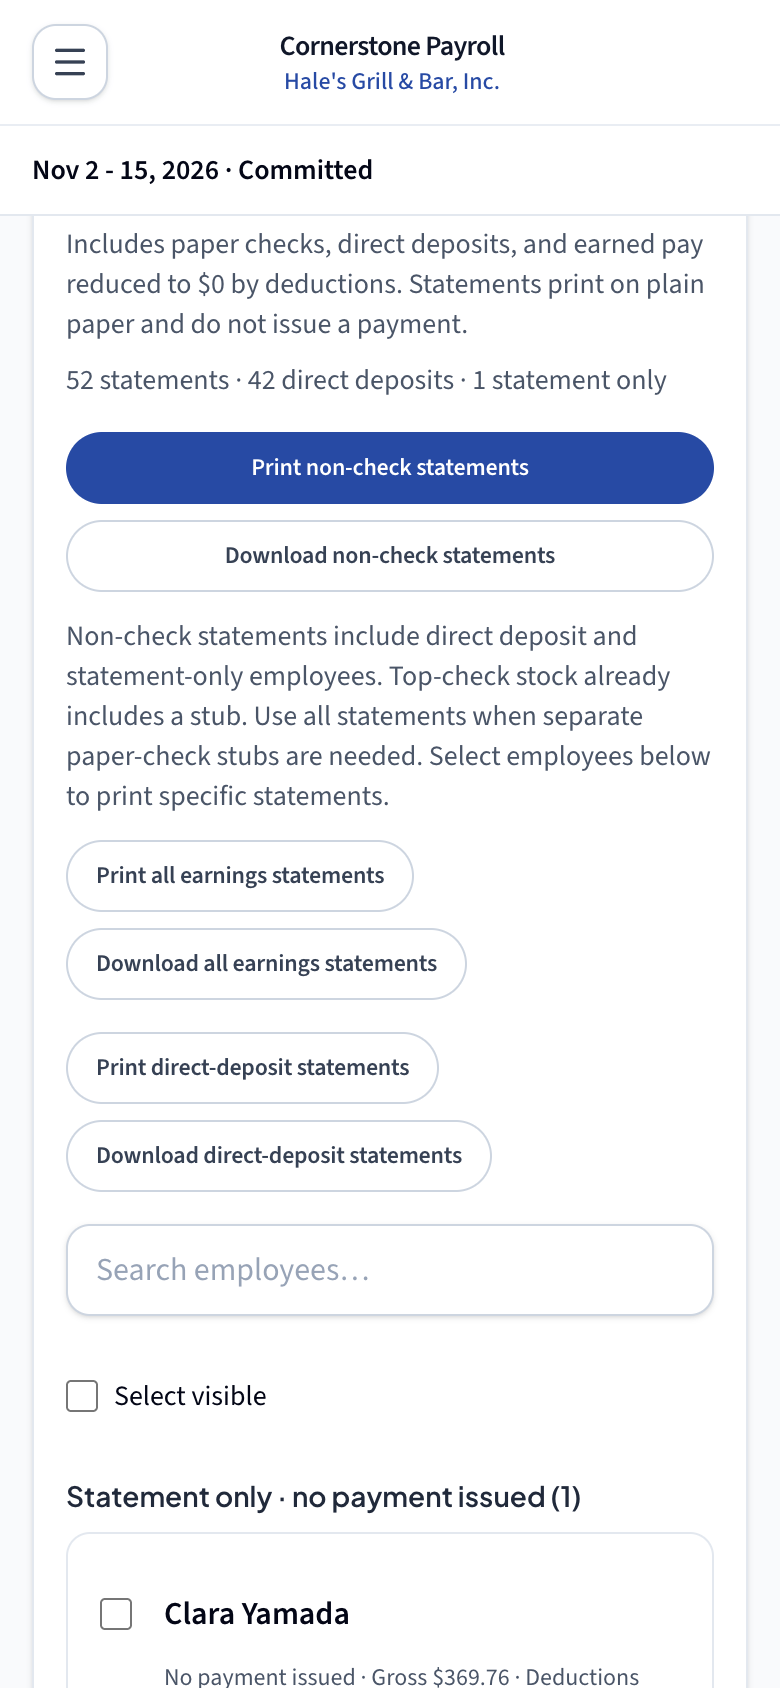
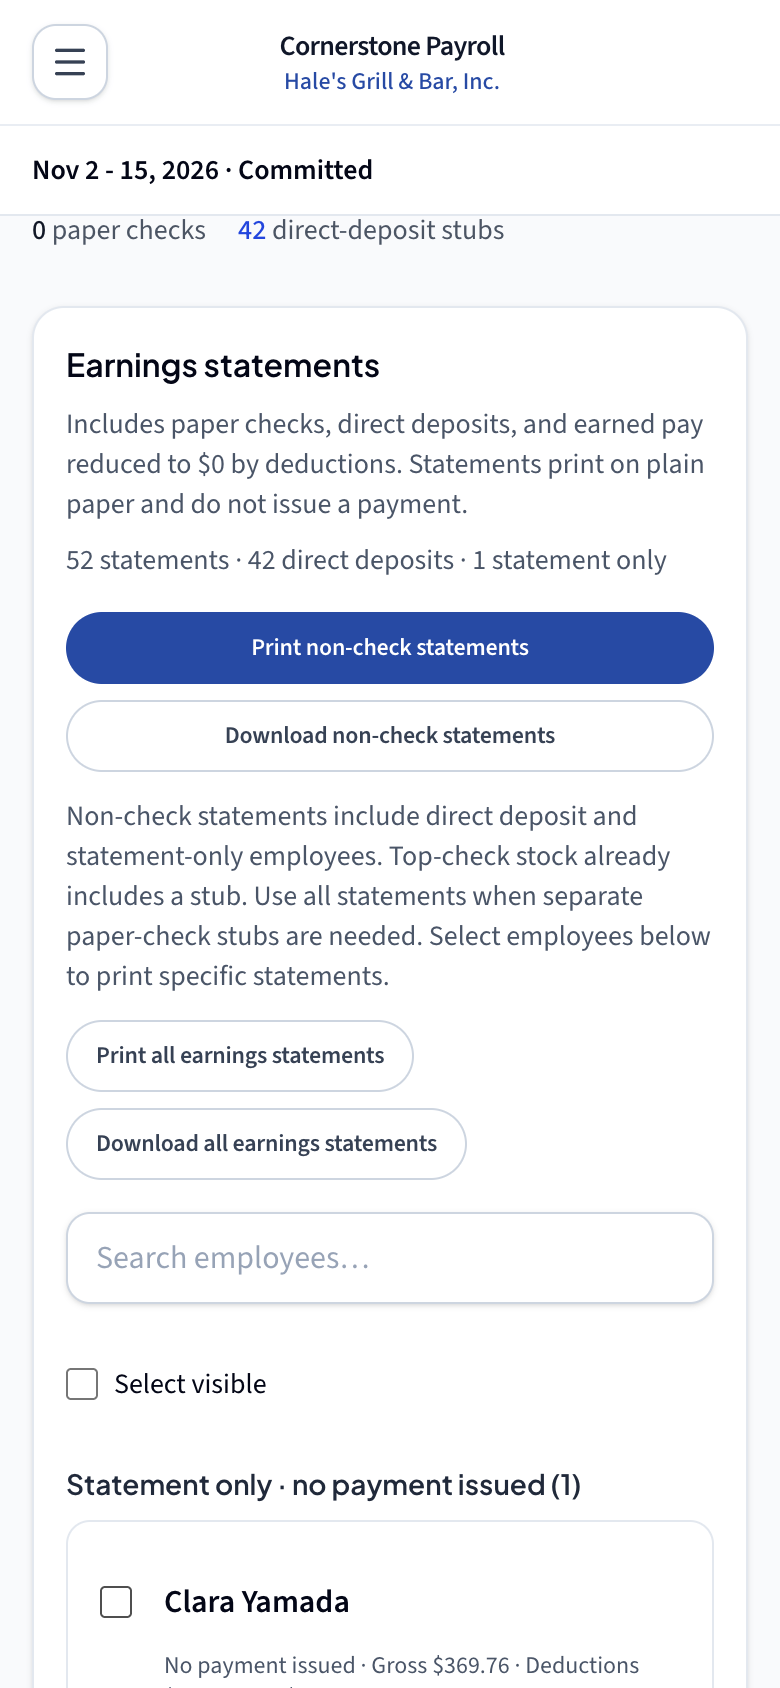
Simplify committed statement actions and match run eligibility
Remove redundant deposit-only controls and cover effective-method refresh plus nonpositive paper-check net pay.

diff --git a/web/src/components/payroll/ChecksPanel.tsx b/web/src/components/payroll/ChecksPanel.tsx
@@ -309,38 +309,6 @@ export function ChecksPanel({ payPeriod, searchTerm = '', refreshToken = 0, onCh
     }
   };
 
-  const handleDirectDepositStubs = async (print: boolean) => {
-    setBatchLoading(true);
-    setBatchAction(print ? 'Opening direct-deposit stubs...' : 'Downloading direct-deposit stubs...');
-    try {
-      const result = await payStubsApi.directDepositStubsPdf(payPeriod.id);
-      const url = URL.createObjectURL(result.blob);
-      if (print) {
-        const printWindow = window.open(url);
-        if (!printWindow) {
-          URL.revokeObjectURL(url);
-          notify({ tone: 'error', message: 'Pop-up blocked. Please allow pop-ups to print direct-deposit stubs.' });
-          return;
-        }
-        printWindow.addEventListener('load', () => {
-          printWindow.print();
-          setTimeout(() => URL.revokeObjectURL(url), 60000);
-        });
-      } else {
-        const link = document.createElement('a');
-        link.href = url;
-        link.download = result.filename || `direct_deposit_stubs_${payPeriod.pay_date ?? 'undated'}.pdf`;
-        link.click();
-        setTimeout(() => URL.revokeObjectURL(url), 100);
-      }
-    } catch (err) {
-      notify({ tone: 'error', message: err instanceof Error ? err.message : 'Failed to generate direct-deposit stubs' });
-    } finally {
-      setBatchLoading(false);
-      setBatchAction(null);
-    }
-  };
-
   const checkNumberChanges = useMemo(() => checks.filter((item) =>
     !item.voided && (checkNumberDrafts[item.id] ?? item.check_number ?? '').trim() !== (item.check_number || '').trim()
   ), [checkNumberDrafts, checks]);
@@ -448,7 +416,9 @@ export function ChecksPanel({ payPeriod, searchTerm = '', refreshToken = 0, onCh
   const stubEligibleIds = filteredStatements.map((item) => item.id);
   const allVisibleStubsSelected = stubEligibleIds.length > 0 && stubEligibleIds.every((id) => selectedStubIdSet.has(id));
   const hasPrintableStub = statementItems.length > 0;
-  const hasNonCheckStub = statementItems.some((item) => item.statement_only || item.payment_delivery_method !== 'paper_check');
+  // The checks index serializes this run's effective method as payment_delivery_method.
+  const hasNonCheckStub = statementItems.some((item) =>
+    item.statement_only || item.payment_delivery_method !== 'paper_check' || Number(item.net_pay) <= 0);
   const hasPhysicalChecks = checks.some((item) => !item.voided && Number(item.net_pay) > 0);
   const directDepositCount = statementItems.filter((item) => !item.statement_only && item.payment_delivery_method === 'direct_deposit').length;
   const statementOnlyCount = statementItems.filter((item) => item.statement_only).length;
@@ -577,12 +547,6 @@ export function ChecksPanel({ payPeriod, searchTerm = '', refreshToken = 0, onCh
           <Button size="sm" variant="outline" onClick={() => void handlePrintPayStubs(true)} disabled={batchLoading || !hasPrintableStub}>Print all earnings statements</Button>
           <Button size="sm" variant="outline" onClick={() => void handleDownloadPayStubs(true)} disabled={batchLoading || !hasPrintableStub}>Download all earnings statements</Button>
         </div>
-        {directDepositCount > 0 && (
-          <div className="mt-4 flex flex-wrap gap-2">
-            <Button size="sm" variant="outline" onClick={() => void handleDirectDepositStubs(true)} disabled={batchLoading}>Print direct-deposit statements</Button>
-            <Button size="sm" variant="outline" onClick={() => void handleDirectDepositStubs(false)} disabled={batchLoading}>Download direct-deposit statements</Button>
-          </div>
-        )}
         {statementItems.length > 0 ? (
           <>
             <div className="mt-4 flex flex-col gap-4 sm:flex-row sm:items-center sm:justify-between">

diff --git a/web/src/components/payroll/ChecksPanel.test.tsx b/web/src/components/payroll/ChecksPanel.test.tsx
@@ -198,6 +198,27 @@ describe('ChecksPanel earnings statements', () => {
     await waitFor(() => expect(apiMocks.batchPdf).toHaveBeenCalledWith(8, undefined));
   });
 
+  it.each([0, -10])('enables non-check statements for paper-check net pay %s even without the statement-only flag', async netPay => {
+    renderStatements([{ ...paperStatement, net_pay: netPay, statement_only: false }]);
+    const print = await screen.findByRole('button', { name: 'Print non-check statements' });
+    expect((print as HTMLButtonElement).disabled).toBe(false);
+    fireEvent.click(print);
+    await waitFor(() => expect(apiMocks.batchPdf).toHaveBeenCalledWith(8, undefined, true));
+  });
+
+  it('refreshes default eligibility after the run payment method changes in either direction', async () => {
+    const view = renderStatements([paperStatement]);
+    expect((await screen.findByRole('button', { name: 'Print non-check statements' }) as HTMLButtonElement).disabled).toBe(true);
+    apiMocks.list.mockResolvedValue({ checks: [], direct_deposit_items: [], earnings_statement_items: [{ ...paperStatement, payment_delivery_method: 'direct_deposit' }], meta });
+    view.rerender(<FeedbackProvider><ChecksPanel payPeriod={{ id: 8, status: 'committed' } as PayPeriod} refreshToken={1} /></FeedbackProvider>);
+    await waitFor(() => expect((screen.getByRole('button', { name: 'Print non-check statements' }) as HTMLButtonElement).disabled).toBe(false));
+    fireEvent.click(screen.getByRole('button', { name: 'Download non-check statements' }));
+    await waitFor(() => expect(apiMocks.batchPdf).toHaveBeenCalledWith(8, undefined, true));
+    apiMocks.list.mockResolvedValue({ checks: [check], direct_deposit_items: [], earnings_statement_items: [paperStatement], meta });
+    view.rerender(<FeedbackProvider><ChecksPanel payPeriod={{ id: 8, status: 'committed' } as PayPeriod} refreshToken={2} /></FeedbackProvider>);
+    await waitFor(() => expect((screen.getByRole('button', { name: 'Print non-check statements' }) as HTMLButtonElement).disabled).toBe(true));
+  });
+
   it('keeps selections across searches and prints exactly the selected statement IDs', async () => {
     renderStatements();
     fireEvent.click(await screen.findByRole('checkbox', { name: 'Select earnings statement for Casey Zero' }));
@@ -242,10 +263,11 @@ describe('ChecksPanel earnings statements', () => {
     await waitFor(() => expect(URL.revokeObjectURL).toHaveBeenCalledWith('blob:statement-test'));
   });
 
-  it('keeps deposit-only printing separate and refresh removes an obsolete selected row', async () => {
+  it('offers only non-check and all statement actions, and refresh removes an obsolete selected row', async () => {
     const view = renderStatements();
-    fireEvent.click(await screen.findByRole('button', { name: 'Print direct-deposit statements' }));
-    await waitFor(() => expect(apiMocks.directDepositStubsPdf).toHaveBeenCalledWith(8));
+    await screen.findByRole('button', { name: 'Print non-check statements' });
+    expect(screen.queryByRole('button', { name: 'Print direct-deposit statements' })).toBeNull();
+    expect(screen.queryByRole('button', { name: 'Download direct-deposit statements' })).toBeNull();
     fireEvent.click(screen.getByRole('checkbox', { name: 'Select earnings statement for Casey Zero' }));
     apiMocks.list.mockResolvedValue({ checks: [check], direct_deposit_items: [], earnings_statement_items: [paperStatement], meta });
     view.rerender(<FeedbackProvider><ChecksPanel payPeriod={{ id: 8, status: 'committed' } as PayPeriod} refreshToken={1} /></FeedbackProvider>);

diff --git a/api/spec/requests/api/v1/admin/checks_spec.rb b/api/spec/requests/api/v1/admin/checks_spec.rb
@@ -126,6 +126,20 @@ RSpec.describe "Api::V1::Admin::Checks", type: :request do
       expect(response.parsed_body.dig("meta", "direct_deposit_count")).to eq(1)
     end
 
+    it "serializes the effective run method after overrides in either direction" do
+      employee_a.update!(payment_delivery_method: "direct_deposit")
+      item_a.update!(payment_delivery_method: "paper_check")
+      get "/api/v1/admin/pay_periods/#{pay_period.id}/checks"
+      statement = response.parsed_body.fetch("earnings_statement_items").find { |row| row.fetch("id") == item_a.id }
+      expect(statement.fetch("payment_delivery_method")).to eq("paper_check")
+
+      employee_a.update!(payment_delivery_method: "paper_check")
+      item_a.update!(payment_delivery_method: "direct_deposit", check_number: nil)
+      get "/api/v1/admin/pay_periods/#{pay_period.id}/checks"
+      statement = response.parsed_body.fetch("earnings_statement_items").find { |row| row.fetch("id") == item_a.id }
+      expect(statement.fetch("payment_delivery_method")).to eq("direct_deposit")
+    end
+
     it "lists zero-net wage statements without putting them in the payment queue" do
       zero_employee = create(:employee, company: company, first_name: "Avery", last_name: "Example")
       zero_item = create(:payroll_item, pay_period: pay_period, employee: zero_employee,

diff --git a/docs/qa/preview-stubs-20261117/README.md b/docs/qa/preview-stubs-20261117/README.md
@@ -33,3 +33,15 @@ Limits: responsive browser dimensions, not physical mobile hardware or native pr
 Review scope decisions: CodeRabbit initial review of `ecf70620` requested automatic inclusion of First Hawaiian 4-Up and retained-wage voided paper checks. Both would expand the specified delivery-method default. The implementation keeps the brief’s default and explicit all/selected access; the runbook now documents these exceptions, with added regression coverage. The review reply records the rationale. CodeRabbit withdrew both suggested default changes after the scope explanation and requested pushed evidence for the documented exceptions and added tests. The original review state remains changes requested until it is updated.
 
 Engineering gate: relevant RSpec; RuboCop on changed Ruby files; Brakeman; frontend lint, TypeScript and 52 affected Vitest tests; Impeccable advisory scan (no findings). Full RSpec is delegated to CI because of its normal ~20-minute duration. 74 relevant RSpec examples passed; a subsequent affected-spec run passed all 29 examples, including the two added scope regressions (76 unique relevant examples total). RuboCop and Brakeman passed after the filename changes. All task-owned servers and browser resources were cleaned; both isolated databases, the copied .env and disposable frontend dependencies were removed after the last test run. Raw downloads are temporary browser artifacts; the membership results and screenshots are retained here.
+
+## Lead review round 1
+
+Starting head: `b1787dc8`; target `origin/main` still `30ed5ea6`. Affected-flow retest by the implementation agent uses a fresh owned synthetic demo copy, with the same 52-person committed fixture: 9 positive-net paper checks, 42 positive-net deposits and one zero-net statement-only row.
+
+The Earnings statements section now has one primary pair (print/download non-check statements) and one secondary pair (print/download all earnings statements). The direct-deposit-only pair and its unused handler were removed. Its API endpoint/helper remain available for compatibility. The frontend eligibility check uses the checks index’s `payment_delivery_method` (the run’s effective method), the statement-only flag and an explicit net-pay ≤ 0 condition.
+
+Automated checks: 127 affected RSpec examples passed, including effective-method serialization after run overrides in both directions. Frontend lint, TypeScript and 55 affected Vitest tests passed, including refresh after paper → deposit → paper changes and paper-check rows with zero/negative net despite a missing statement-only flag. RuboCop on the changed request spec passed. Impeccable advisory scan returned no findings. No controller implementation changed in this round.
+
+Browser retest passed at desktop 1280×800 and mobile 390×844: the section shows exactly the non-check and all-statement pairs, controls are reachable and neither viewport has horizontal overflow. Both viewports downloaded non-check statements (43 employees) and all statements (52 employees); each PDF matched the full expected employee list and name order. See [round-1 PDF results](round1-pdf-results.json), [updated mobile committed view](mobile-committed.png) and [desktop committed view](desktop-committed.png).
+
+Round-1 cleanup: closed the task tab, stopped the owned Rails and Vite servers, dropped both uniquely named databases, and removed the copied environment file and disposable frontend dependencies. No borrowed resources were changed.

diff --git a/docs/runbooks/MOSA_PAYROLL_CYCLE.md b/docs/runbooks/MOSA_PAYROLL_CYCLE.md
@@ -174,7 +174,7 @@ On **Checks & payments**:
 2. Check each **Check number** against the stock. Change any that don't match, then **Save check numbers**.
 3. Choose **Generate and save package**, then **Open saved PDF to print** (or **Download**).
 
-**Print non-check statements** and **Download non-check statements** include direct deposit and statement-only employees, using the payment method saved for this run. **Print all earnings statements** and **Download all earnings statements** are secondary options that also include paper-check employees. You can also select individual employees. Use **all earnings statements** or an individual selection for paper-check employees whose checks were voided but whose wages remain owed, or for First Hawaiian 4-Up stock without attached stubs. Non-check defaults follow the run’s delivery method; they do not certify payment or settle retained wages. Printing a stub doesn't start a bank transfer. The **Reports** tab has the **Full Print Package** with the transmittal and payroll reports; it does not include checks or individual earnings statements. Reports downloaded before commit are marked "PREVIEW, payroll not yet committed". After commit they aren't.
+**Print non-check statements** and **Download non-check statements** include direct deposit and statement-only employees, using the payment method saved for this run. **Print all earnings statements** and **Download all earnings statements** are the secondary pair and also include paper-check employees. There is no separate direct-deposit-only button pair; the non-check defaults include direct deposits and statement-only activity. You can also select individual employees. Use **all earnings statements** or an individual selection for paper-check employees whose checks were voided but whose wages remain owed, or for First Hawaiian 4-Up stock without attached stubs. Non-check defaults follow the run’s delivery method; they do not certify payment or settle retained wages. Printing a stub doesn't start a bank transfer. The **Reports** tab has the **Full Print Package** with the transmittal and payroll reports; it does not include checks or individual earnings statements. Reports downloaded before commit are marked "PREVIEW, payroll not yet committed". After commit they aren't.
 
 ## Mark inactive
 
